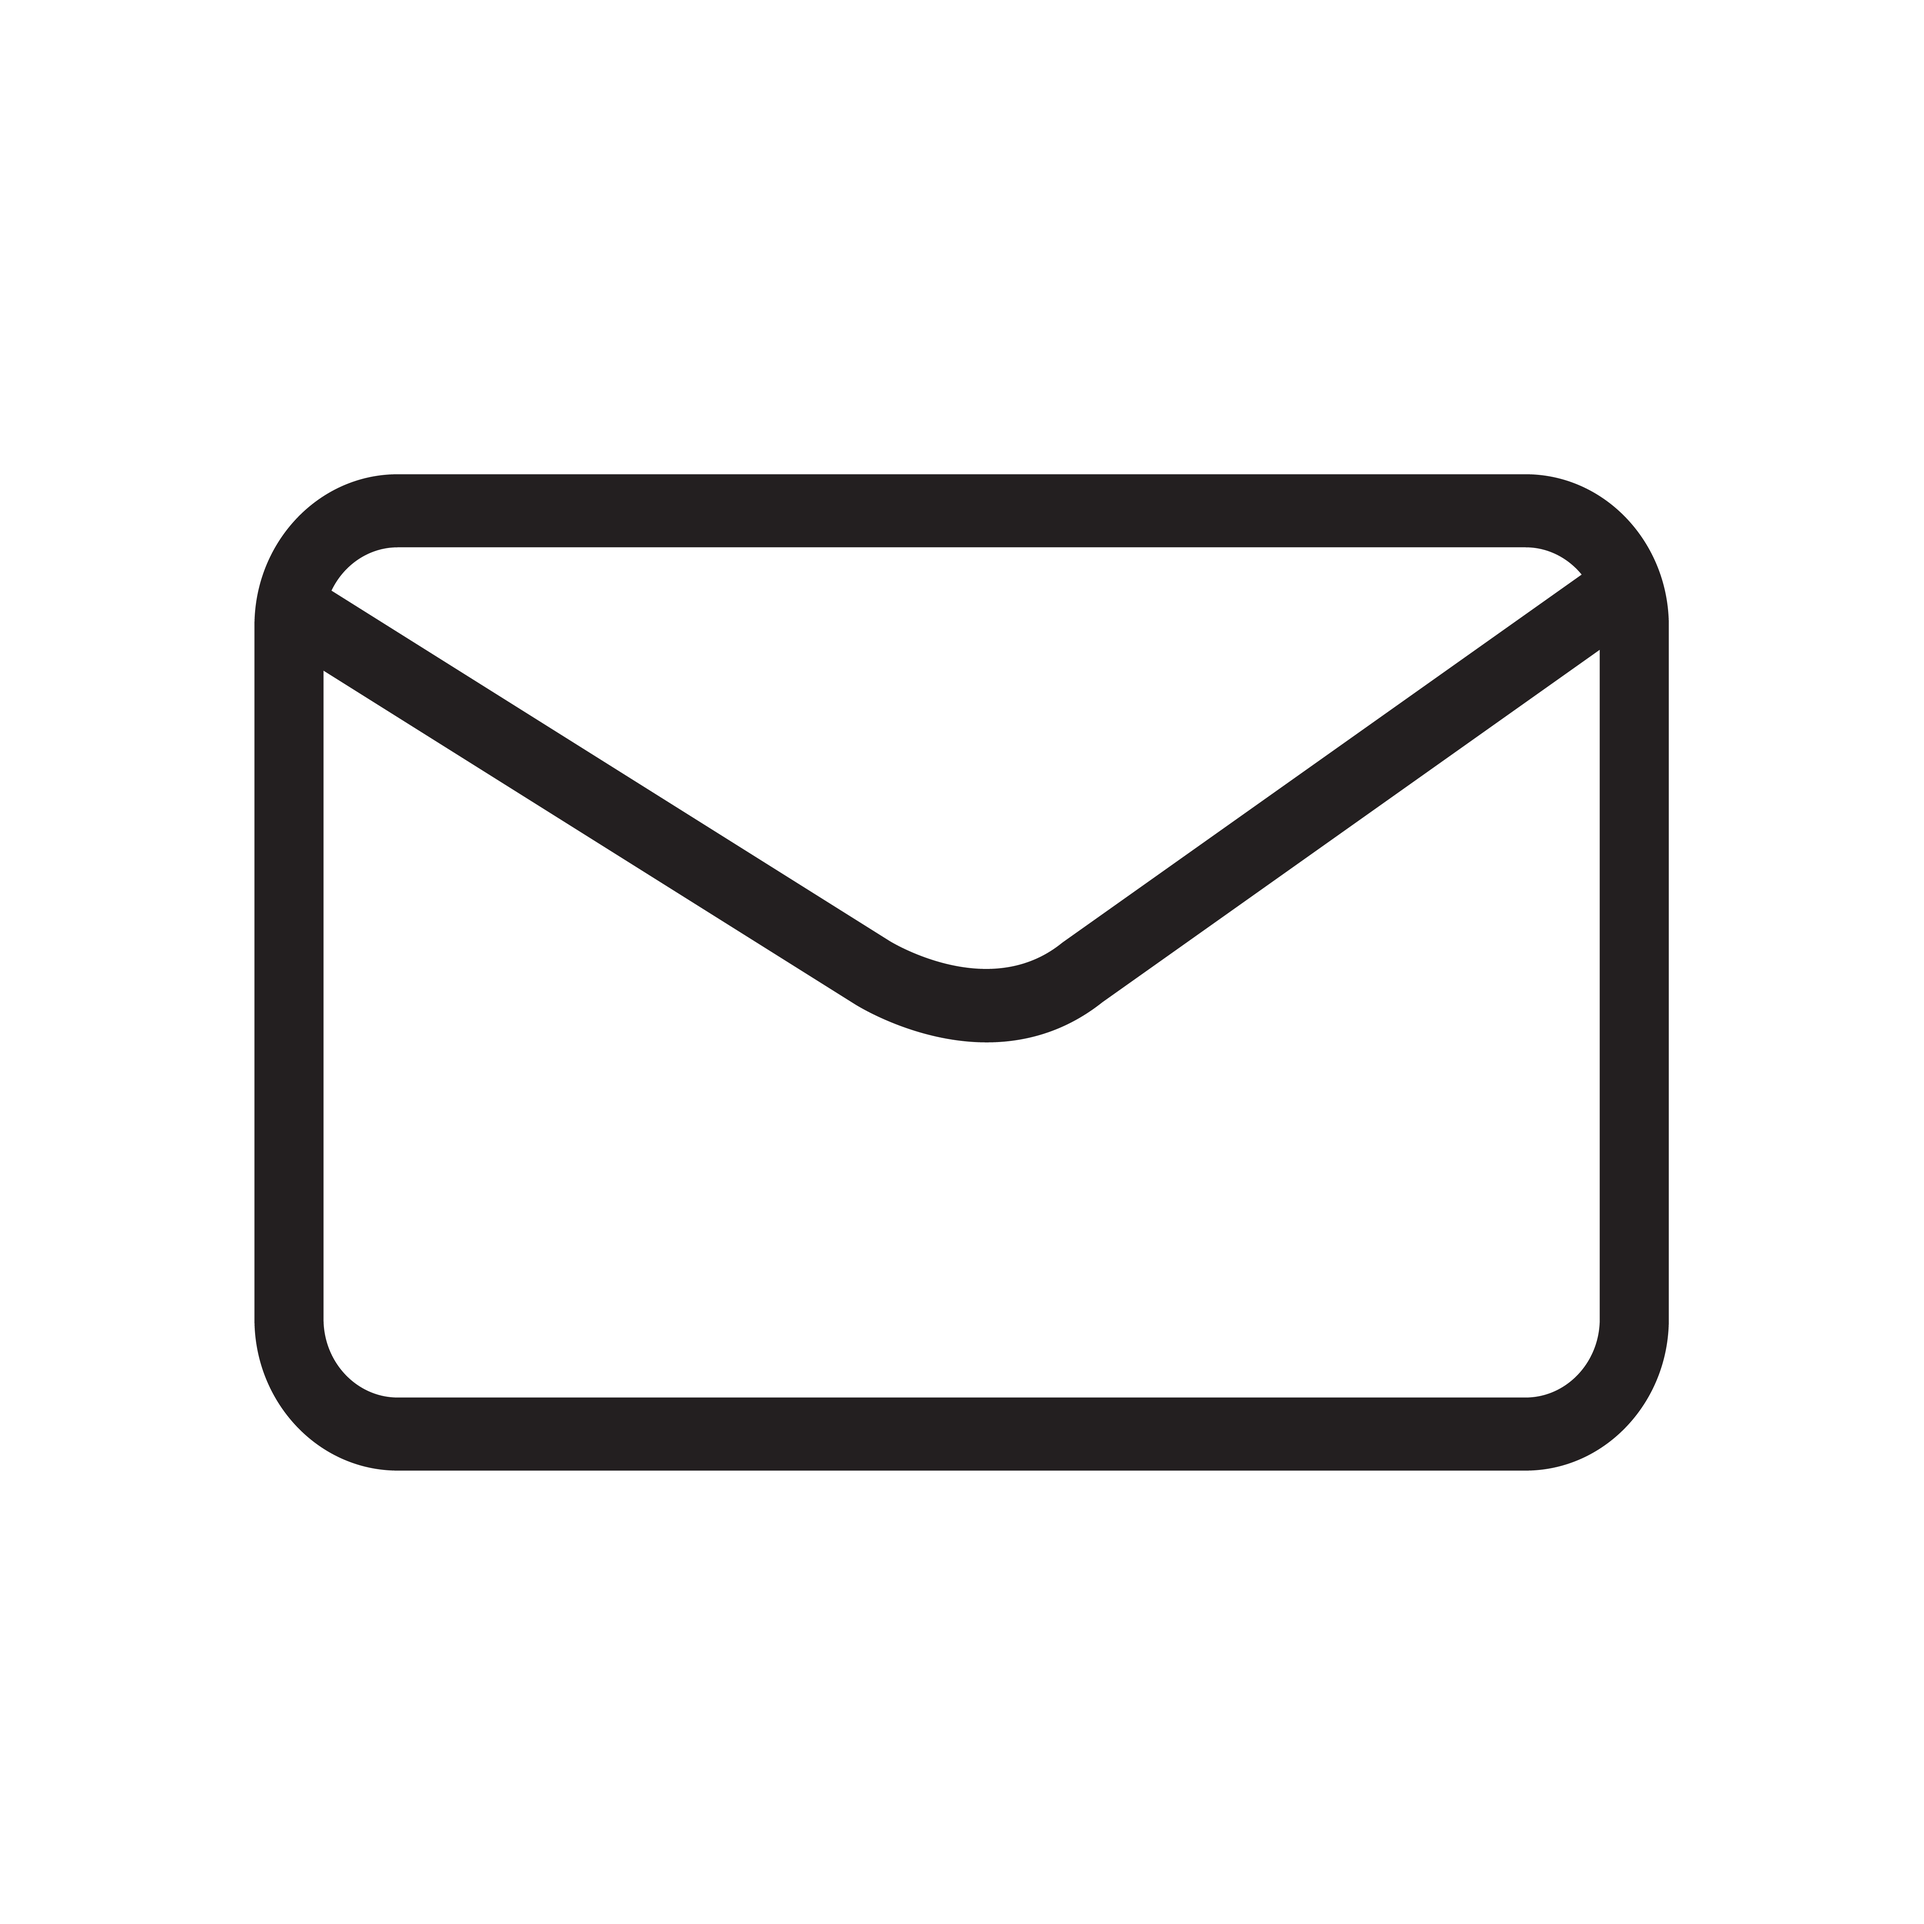
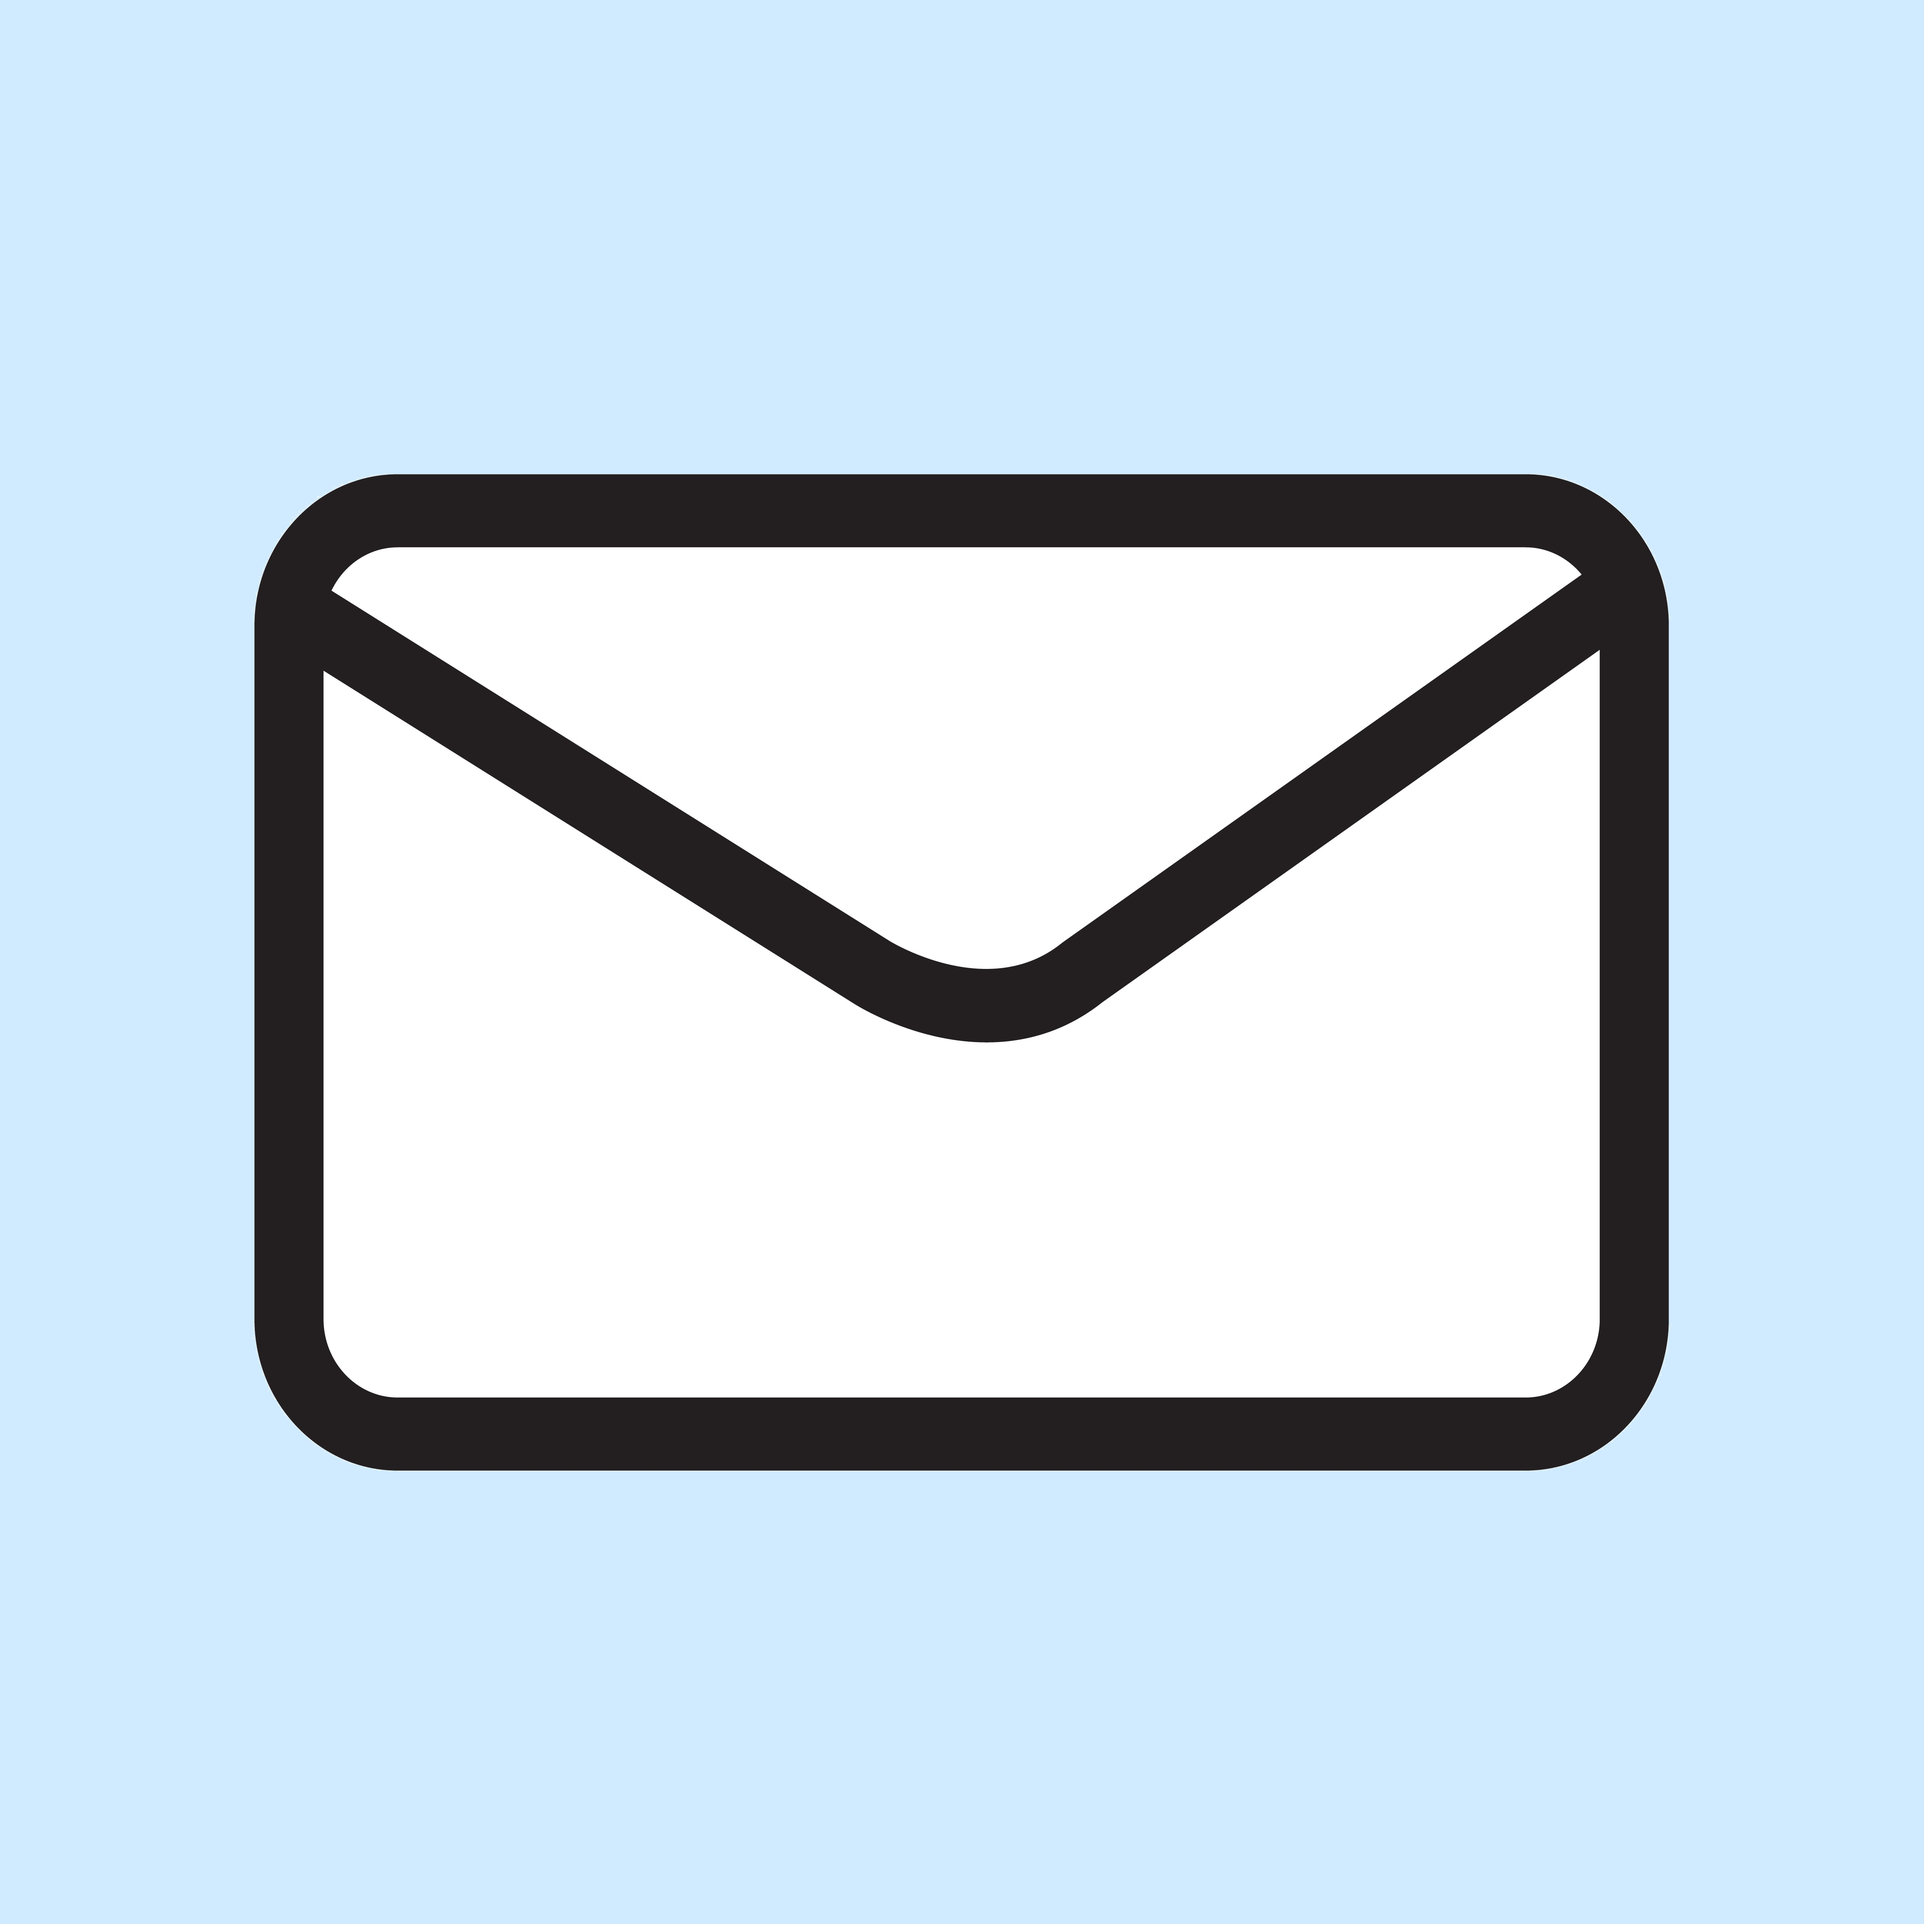
Detalles en el estilo de la pestaña de login

diff --git a/login.html b/login.html
@@ -19,22 +19,27 @@
 <body>
   <main class="mt-5">
     <div class="container text-center">
+      <!-- Agregamos formulario para el funcionamiento del login -->
       <h1 id="inicio-sesion">Inicio de sesión</h1>
       <br>
       <form action="index.html">
         <img src="/img/login.png" id="do-login">
-        <h1>Ingresa tus datos</h1>
-        <br>
-        <img src="/img/email.jpg" class="login pull-left">
-        <input type="email" name="email" id="email" placeholder="Email" required>
-        <br><br>
-        <img src="/img/password.png" class="login">
-        <input type="password" name="password" id="password" placeholder="Contraseña" required>
-        <br><br>
-        <input type="checkbox" name="mostrar" id="mostrar">
-        <label for="mostrar">Mostrar contraseña</label>
-        <br><br>
-        <button type="submit" value="Enviar login" id="enviar">Iniciar sesión</button>
+        <div class="container login">
+          <br>
+          <h1>Ingresa tus datos</h1>
+          <br>
+          <img src="/img/email.jpg" class="login pull-left">
+          <input type="email" name="email" id="email" placeholder="Email" required>
+          <br><br>
+          <img src="/img/password.png" class="login">
+          <input type="password" name="password" id="password" placeholder="Contraseña" required>
+          <br><br>
+          <input type="checkbox" name="mostrar" id="mostrar">
+          <label for="mostrar">Mostrar contraseña</label>
+          <br><br>
+          <button type="submit" value="Enviar login" id="enviar">Iniciar sesión</button>
+          <br><br>
+        </div>
       </form>
     </div>
   </main>

diff --git a/css/styles.css b/css/styles.css
@@ -189,11 +189,10 @@ a.custom-card:hover {
   color: orange;
 }
 
-/* Agregados para el menú login */
+/* Agregados para la estética del menú login */
 
-img.login, #do-login {
+img.login {
   width: 50px;
-  background-color: rgb(248, 249, 250);
 }
 
 #do-login{
@@ -203,4 +202,11 @@ img.login, #do-login {
 h1#inicio-sesion{
   text-shadow: 1px 1px 1px black;
   font-size: 300%;
+}
+
+div.container div.login{
+  background-color: rgb(208, 235, 255);
+  width: 67%;
+  border-radius: 30px;
+  border-style:groove;
 }
